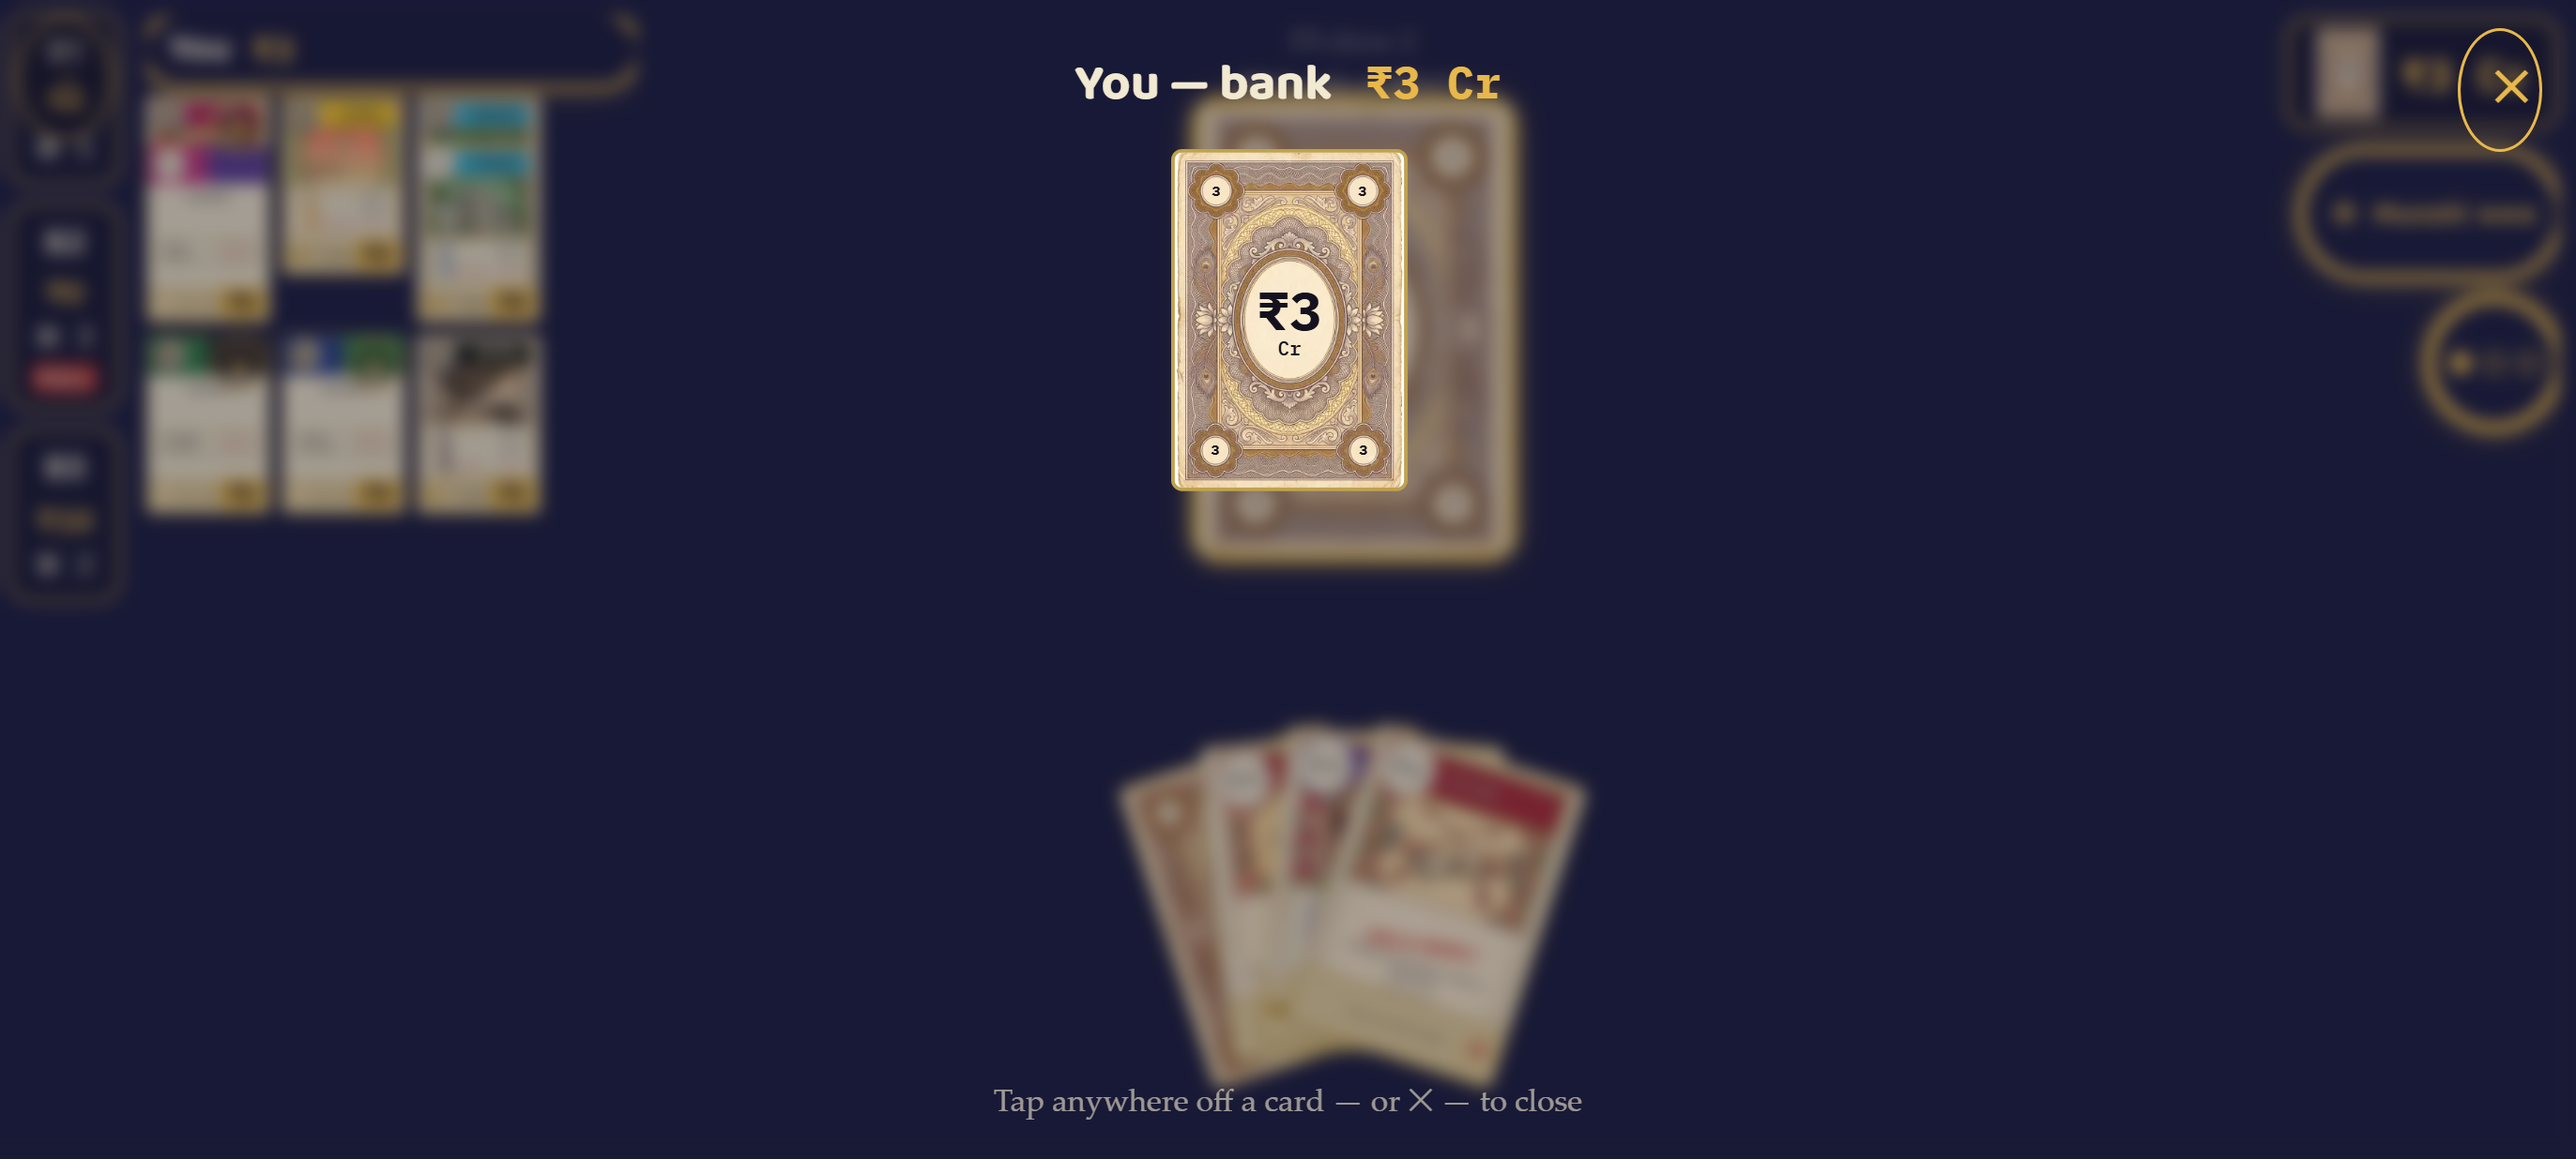
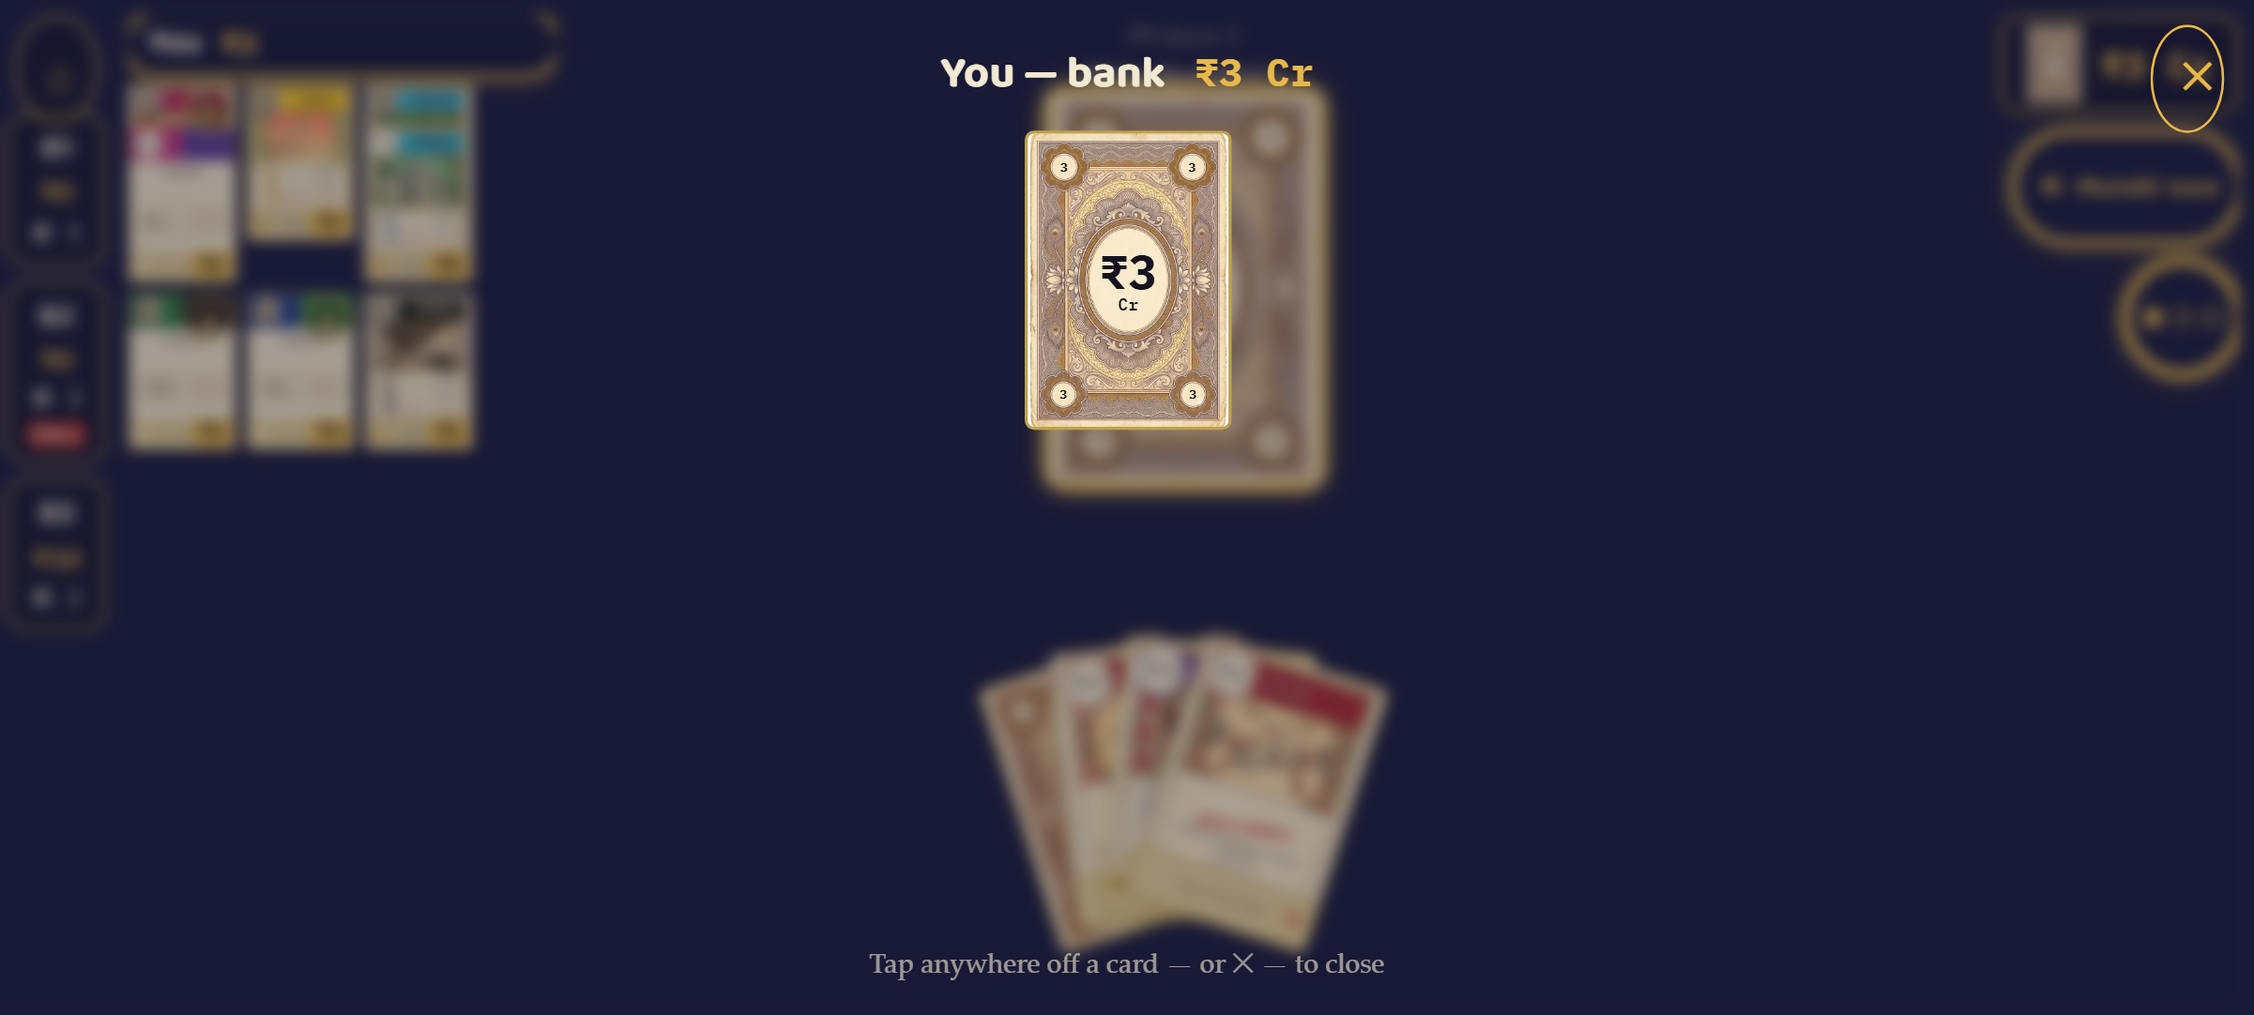
docs(landscape): R spec amendment + EXPLAIN crib + capture harness/INDEX
- BUILD_SPEC §14: the landscape rebuild amendment — orientation model, the
  three screen states (MY TURN / SPECTATE / OVERLAYS) with their zone maths,
  transitions, and the R2-R7 addenda (owner landscape directive, 2 Aug).
- EXPLAIN.md: the landscape-pass interview crib (7 bullets: rotate gate,
  focus-follows-turn maths, wheel width invariants, the caption fix, the two
  no-engine audits, the advice composer, and the ip-guard lesson).
- capture-landscape.mjs: harness re-parameterised onto the landscape device
  profiles; shoots the rotate gate, MY TURN, spectate+caption, targeting
  split, bank inspect, advice card and the shell across the four profiles and
  writes docs/captures/landscape-1/INDEX.md. 21/21 stills. Wired as
  pnpm capture:landscape.
- DECISIONS.md carries a one-liner block per R-item (R0-R7).

diff --git a/docs/BUILD_SPEC.md b/docs/BUILD_SPEC.md
@@ -265,3 +265,49 @@ Read this as the design brief; make deliberate choices, not template defaults.
 
 ## 13. Explicitly out of scope for v1
 Online multiplayer, accounts/auth, any backend or database, ads/IAP, analytics SDKs, iOS build, localization beyond English-with-Hinglish. Do not add these even if convenient.
+
+## 14. Landscape rebuild (R) — spec amendment (owner landscape directive, 2 Aug)
+
+SAUDA is a **landscape-only** game with a **focus-follows-turn** screen model. This amendment supersedes
+the portrait play-screen layout (§10) for the play surface; the engine, bots, card art, palette and rules
+(§1–§9) are unchanged.
+
+**Orientation.** The play screen only ever lays out with the long edge horizontal. A browser cannot force
+orientation outside fullscreen, so in portrait the app renders a full-screen rotate interstitial over an
+**unmounted, paused** game (state persists in the store; no bot steps behind it) — the game never lays out
+in portrait. A "Go fullscreen" control best-effort enters fullscreen and `screen.orientation.lock('landscape')`.
+The M5 Capacitor build pins landscape in the native manifest, so the gate is a web-only fallback. The device
+testbed is the four PHONE-1 Android sizes rotated: 740×360, 800×360, 832×384, 915×412, plus a reduced-motion
+variant; the binding constraint is now the **short edge (360px tall)**.
+
+**The three screen states.**
+
+- **A — MY TURN (my world only).** A far-edge bot **rail** (chips: seat · bank · set count · FULL badge ·
+  gold ring on the active player; tap opens that bot's zoom), then a top row of three columns — my **sets**
+  (left), the play **stage** (centre, the action drop target + the just-played spotlight), and my **controls**
+  (right: bank tray · Munshi · turn token) — with the hand **wheel** spanning the full bottom width, hub at
+  bottom-centre. The wheel is its own bottom row, so the bank tray and turn token never collide with it at any
+  hand count. Zone maths: `resolveMyTurn(w, h)` — rail 46; two side columns clamp to [128, 200] at ~20% of the
+  content width; the centre stage takes the rest (always the widest); the wheel band is clamp(0.46·h, [150, 178])
+  and the top row is the remainder; the wheel container is the full width minus the rail. Bot boards do NOT
+  render here.
+- **B — SPECTATE (any bot's turn).** A split so I always see what is being done TO me: the acting bot's panel
+  (the larger share) carries their name, their board, and the stage where each played card is held LARGE with
+  its **caption** (§R2 below); my panel (the smaller share) keeps a read-only view of my sets, bank total and
+  hand (as card backs — the wheel collapses; I can only act via interrupt overlays). Non-acting bots stay on
+  the rail. Zone maths: `resolveSpectate(w, h)` — rail 46; the acting panel is max(300, 58% of content); my
+  panel takes the rest (never wider than the acting panel).
+- **C — OVERLAYS.** Payment, targeting, bank inspect, board zoom, the Book, the pause sheet and the rotate gate
+  are each laid out for landscape (side-split or centred-wide), all on the LAYERS scale, all backdrop-tap + ✕
+  dismissable, nothing clipped or scrolling the page (internal modal scroll stays legal).
+
+**Transitions.** MY TURN ↔ SPECTATE is a single ~250ms slide + fade, transform-only, instant under reduced
+motion, with no dead frame (the incoming layout dissolves in over the same felt).
+
+**Amendment addenda (R2–R7).** R2: a bot's play reads as a **caption beside** the spotlit card ("B2 · Chennai
+Central"), never behind it. R3: the bank is public — tapping my bank tray opens a real-face grid; an opponent's
+bank shows the same way in their zoom. R4: payment offers every payable card (bank money, **banked actions**,
+properties) with strategic overpay as easy as the suggestion. R5: targeting is a split with a read-only "My
+Sets" reference (default open). R6: Munshi advice is composed from the recommendation + concrete public facts;
+the portrait loads from `apps/mobile/src/assets/plates/munshi.webp` when present (silhouette fallback). R7: Home
+and the Book are two-pane.

diff --git a/EXPLAIN.md b/EXPLAIN.md
@@ -258,3 +258,36 @@ Plain-English notes on the key design decisions per milestone. Read top-to-botto
   scripts removed, and a lone `eslint-disable` pointing at an uninstalled `react-hooks` rule replaced
   with a plain note (installing the plugin would have added a dependency and unbounded new lint surface
   under a freeze). `pnpm verify` now runs lint first, so zero can't silently become seven again.
+
+## LANDSCAPE REBUILD (R) — the interview crib
+
+- **Landscape-only via a rotate gate, not a forced orientation.** Browsers can't force orientation
+  outside fullscreen, so `orientationOf(w,h)` (`h > w` = portrait; a square is landscape so a
+  mid-rotation tie can't flicker) decides, and in portrait the App renders `RotateGate` INSTEAD of the
+  game. The game is *unmounted* — its state lives in the zustand store, so no bot steps behind the gate
+  and rotating back resumes exactly. Fullscreen + `screen.orientation.lock` is best-effort; the M5
+  Capacitor manifest pins landscape natively.
+- **Focus follows turn is two pure zone-maths functions, one Board that keeps all the glue.**
+  `landscapeLayout.ts` (`resolveMyTurn` / `resolveSpectate`) is DOM-free and unit-tested, so the layout
+  is provable without a browser. Board keeps every drag/tap/targeting/inspect handler and just delegates
+  the *composition* to `MyTurnLayout` (my world only) or `SpectateLayout` (the split) — a `FocusTransition`
+  wrapper keyed on whose turn it is plays one 250ms slide/fade between them (instant under reduced motion).
+- **The wheel got wider, and it's proven.** The wheel spans the full content width (≈694–869px vs the old
+  ~344px my-area), so a clearer arc. The no-clip invariant suite now runs at those landscape widths too —
+  containment holds by construction (the radius is derived so the extreme card fits), so more width just
+  means a wider, cleaner spread.
+- **The hidden-text bug is fixed by moving the label off the card.** `shortLabel(card, play)` builds a
+  one-line "B2 · Chennai Central" caption pinned ABOVE the spotlit card on `LAYERS.badge`, so it can never
+  sit behind it again. It's unit-tested across every card family + the length cap; `stagePlayFromEvents`
+  derives the play kind from the acting bot's last event.
+- **Two audits that touched no engine code.** R3: opponent bank is already public (`OpponentView.bank`),
+  so the zoom just renders it. R4: the payment roster already included banked actions — the bug was that
+  `isMoney` mis-bucketed a banked action as a "property" and hid it; `fromBank` (money OR banked action)
+  fixes it, so a banked AAGE BADHO sits with the money and strategic overpay is one tap.
+- **Munshi advice is composed in the UI layer from public facts.** `composeMunshiAdvice(advice, obs)`
+  keeps the frozen bot's decision but writes the sentence from set progress / a visible rival threat / the
+  threat / a card value / plays-left — every line names the move and cites ≥1 concrete PUBLIC fact, never
+  hidden info. `packages/bots` stays byte-identical.
+- **The ip-guard caught a real slip.** A stray "short line" (a Monopoly railroad) in a code comment
+  tripped the repo-wide IP guard — a reminder that §2 is enforced mechanically, not by vigilance. Run the
+  FULL suite before a commit, not just the app tests, or the engine's guards can be missed.

diff --git a/docs/captures/landscape-1/INDEX.md b/docs/captures/landscape-1/INDEX.md
@@ -1,0 +1,36 @@
+# LANDSCAPE REBUILD (R) — capture pack INDEX
+
+SAUDA is landscape-only (owner landscape directive, 2 Aug). Every still here is shot on the
+LANDSCAPE device profiles (deviceProfiles.json, rotated) via the committed dev hooks. Rerun:
+`pnpm dev:lan` in one shell, then `pnpm capture:landscape`.
+
+| Still | Proves |
+|-------|--------|
+| `r0_rotate_360x740.png` | R0 rotate gate (portrait raises it) |
+| `r1_myturn_740x360.png` | R1 MY TURN view @ 740x360 |
+| `r7_home_740x360.png` | R7 Home two-pane @ 740x360 |
+| `r7_book_740x360.png` | R7 Book two-pane @ 740x360 |
+| `r0_rotate_360x800.png` | R0 rotate gate (portrait raises it) |
+| `r1_myturn_800x360.png` | R1 MY TURN view @ 800x360 |
+| `r7_home_800x360.png` | R7 Home two-pane @ 800x360 |
+| `r7_book_800x360.png` | R7 Book two-pane @ 800x360 |
+| `r0_rotate_384x832.png` | R0 rotate gate (portrait raises it) |
+| `r1_myturn_832x384.png` | R1 MY TURN view @ 832x384 |
+| `r7_home_832x384.png` | R7 Home two-pane @ 832x384 |
+| `r7_book_832x384.png` | R7 Book two-pane @ 832x384 |
+| `r0_rotate_412x915.png` | R0 rotate gate (portrait raises it) |
+| `r1_myturn_915x412.png` | R1 MY TURN view @ 915x412 |
+| `r7_home_915x412.png` | R7 Home two-pane @ 915x412 |
+| `r7_book_915x412.png` | R7 Book two-pane @ 915x412 |
+| `r2_spectate_caption_915x412.png` | R1b spectate split + R2 stage caption |
+| `r2_spectate_caption_740x360.png` | R1b spectate split + R2 stage caption |
+| `r5_targeting_split_915x412.png` | R5 targeting split (targets + My Sets reference) |
+| `r3_my_bank_915x412.png` | R3 bank inspect (real faces + gold total) |
+| `r6_advice_915x412.png` | R6 nuanced advice card (medallion · sentence · card) |
+
+## Clips (recorded separately, see the pass report)
+
+Feel cannot be shown with stills — the my-turn↔spectate transition, a full bot turn with captions,
+a HAATH KI SAFAI pick with the reference panel, the ₹3-banked-action overpay, and a wheel scrub at
+landscape width are recorded as webm clips in the pass report.
+
